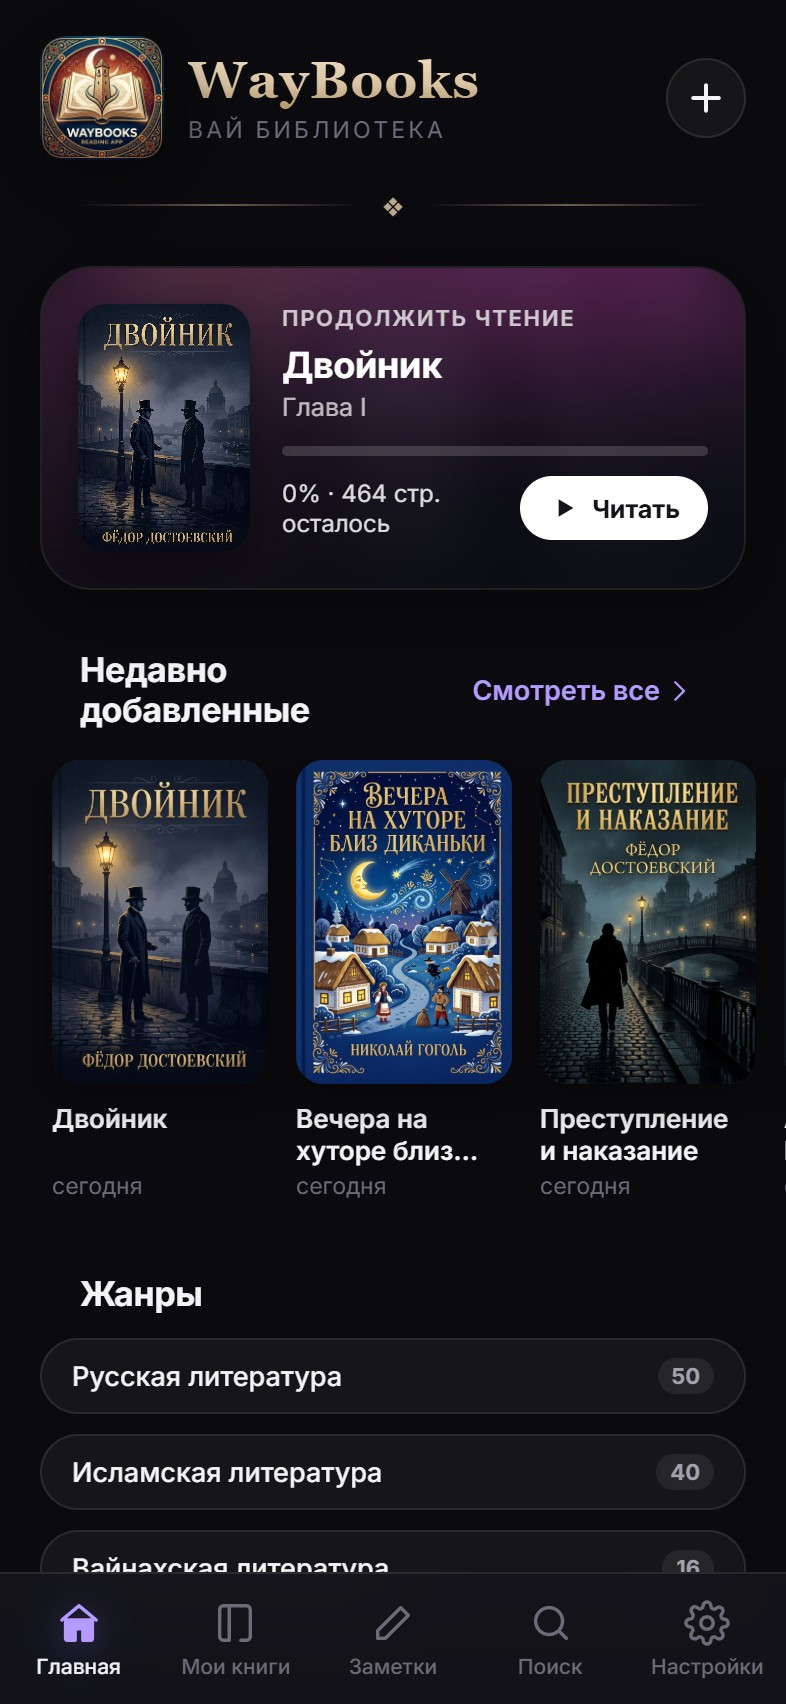
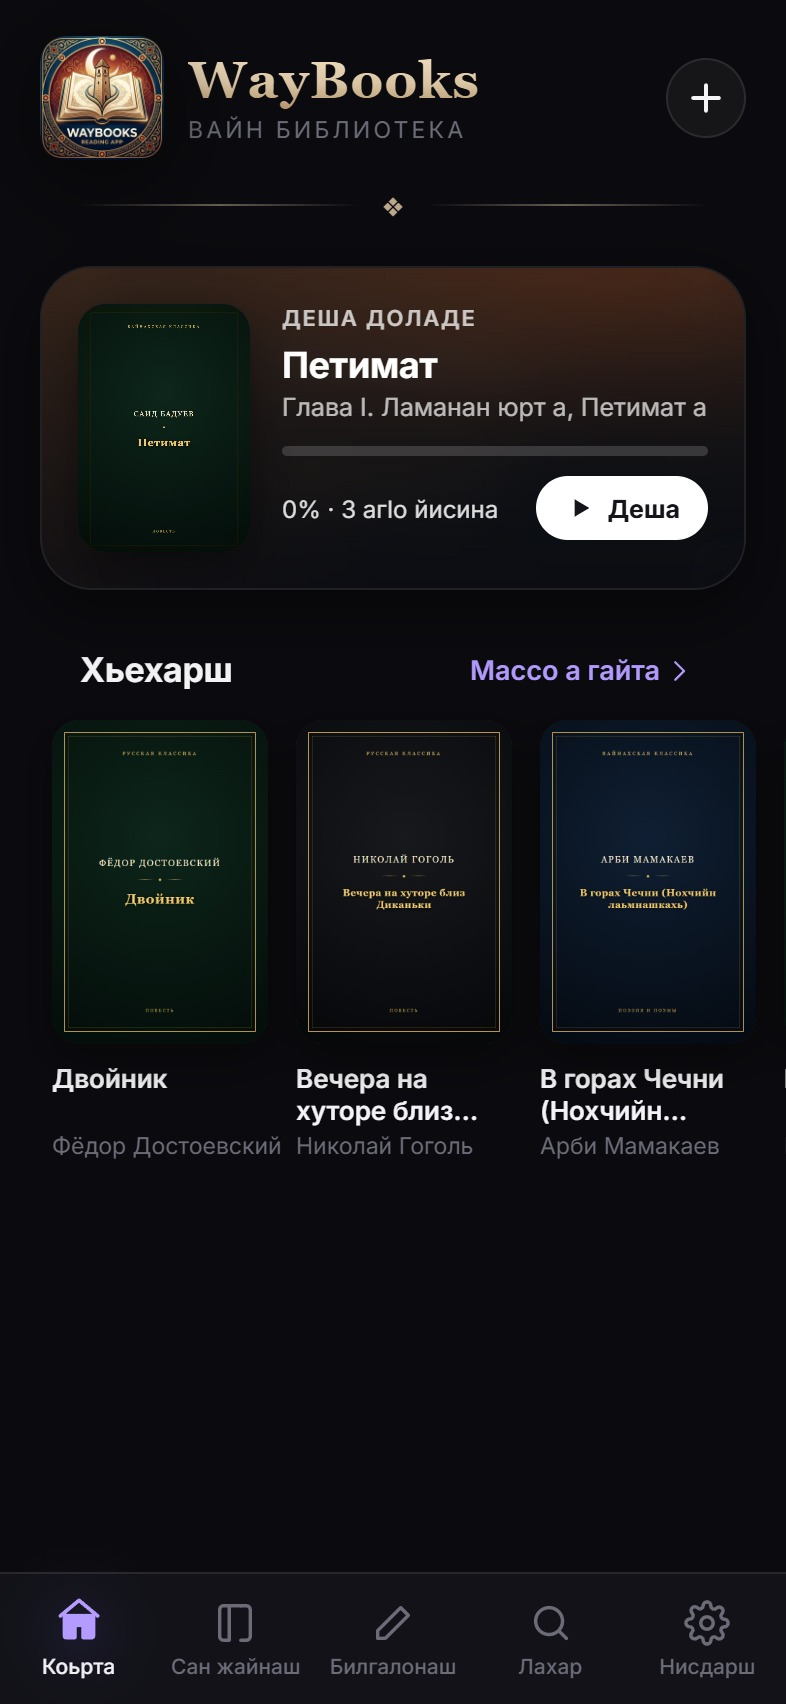
feat: update hero screenshot with recommendations and minimal covers

diff --git a/index.html b/index.html
@@ -7,7 +7,7 @@
 <meta name="description" content="WayBooks — читалка, которая работает без интернета: 115 полных текстов встроено, свои обложки, EPUB, FB2, PDF и TXT, четыре темы и счётчик страниц. Скачать APK на Android." />
 <meta name="theme-color" content="#0b0b0f" />
 <link rel="icon" type="image/png" href="assets/logo.png" />
-<link rel="preload" as="image" href="assets/shots/home.jpg" />
+<link rel="preload" as="image" href="assets/shots/home.jpg?v=1.5" />
 <style>
 @font-face{font-family:'Inter';font-style:normal;font-weight:400;font-display:swap;src:url(assets/fonts/inter-cyr.woff2) format('woff2');unicode-range:U+0400-045F,U+0490-0491,U+04B0-04B1,U+2116}
 @font-face{font-family:'Inter';font-style:normal;font-weight:400;font-display:swap;src:url(assets/fonts/inter-lat.woff2) format('woff2');unicode-range:U+0000-00FF,U+0131,U+0152-0153,U+2013-2014,U+2191,U+2113,U+2122}
@@ -264,7 +264,7 @@ footer .wordmark{font-size:17px}
     </div>
   </div>
   <figure class="phone">
-    <img src="assets/shots/home.jpg" width="306" height="664" alt="Главный экран WayBooks: полки книг и жанры" loading="eager" />
+    <img src="assets/shots/home.jpg?v=1.5" width="306" height="664" alt="Главный экран WayBooks: рекомендации и классические книги" loading="eager" />
   </figure>
 </section>
 
